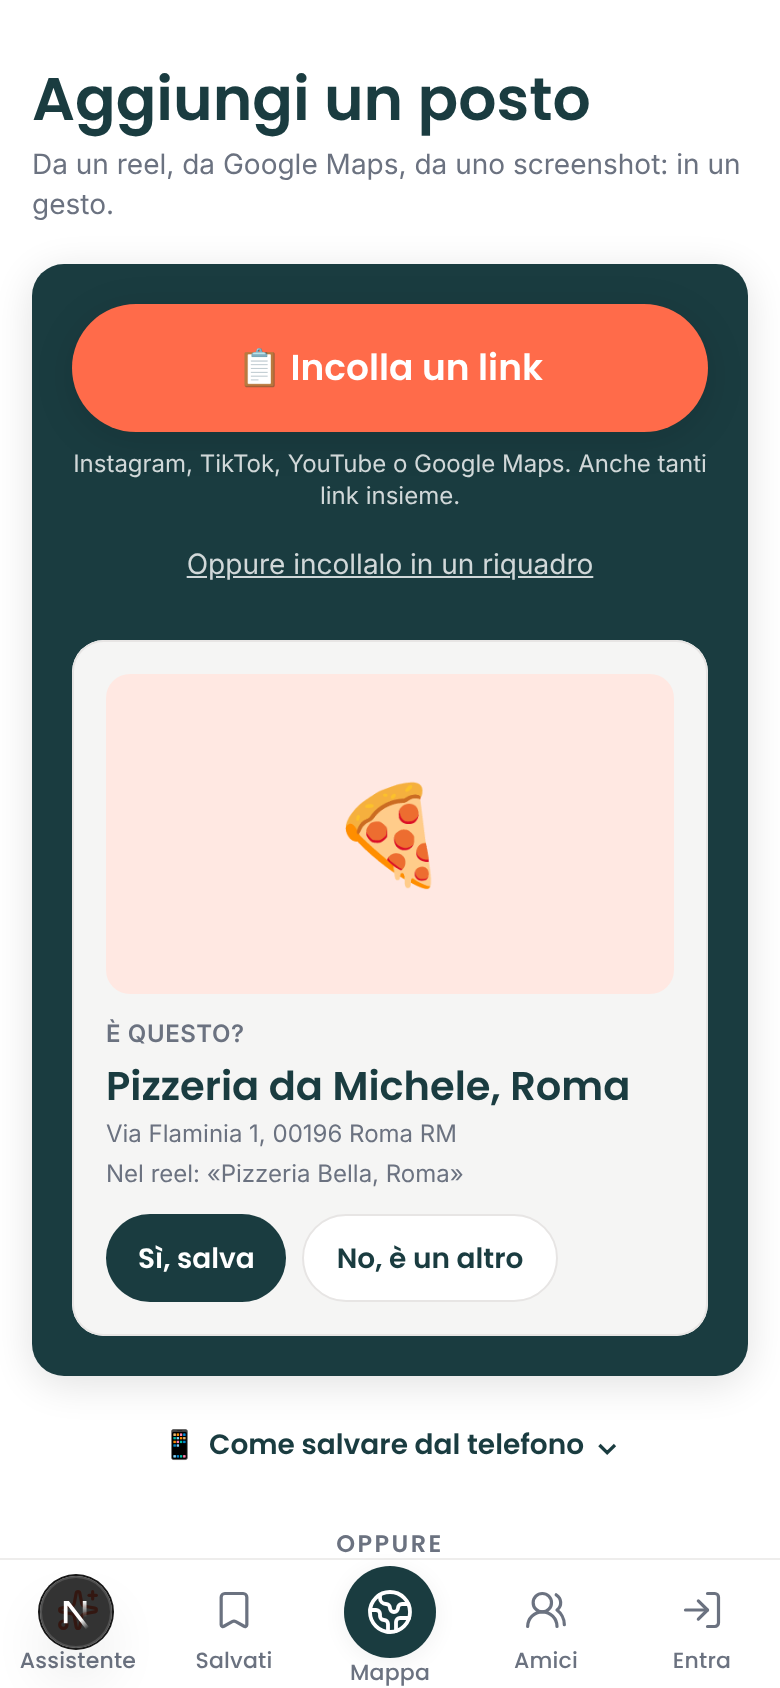
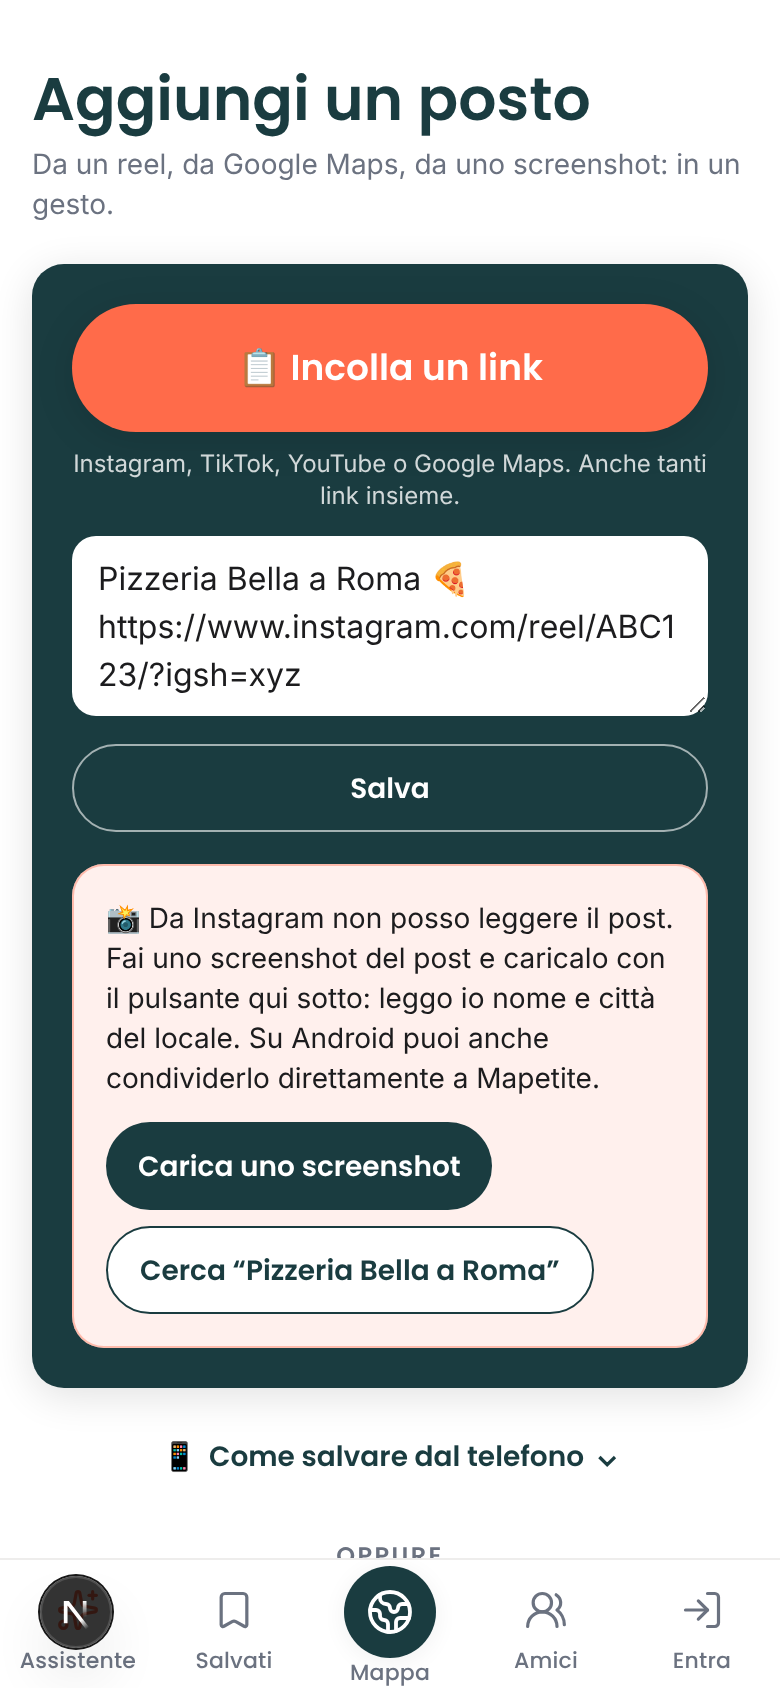
Primo accesso sul mockup A di nuovo acceso nel branch (revert del rinvio 63cd395), per correggere i difetti del terzo collaudo
Claude-Session: https://claude.ai/code/session_01VzRcprKnHW4LyteMmXX4Ky

Changed region(s): [[0.0308, 0.3081, 0.9538, 0.9242]]

diff --git a/src/app/onboarding/onboarding-view.tsx b/src/app/onboarding/onboarding-view.tsx
@@ -2,15 +2,21 @@
 
 import { useEffect, useState, useSyncExternalStore } from "react";
 import { useRouter } from "next/navigation";
-import { ArrowLeft, ChevronRight } from "lucide-react";
+import { ArrowLeft, ArrowRight, ChevronRight, Sparkles } from "lucide-react";
 import { completeOnboarding, skipOnboarding } from "./actions";
 import { CUISINES, OCCASIONS, ATMOSPHERES, PRICE_RANGES } from "@/lib/preferences";
-import { DIETE, SCOPERTE, TIPI, capito, dieteValide, pulisciMappa, scopertaDedotta, type Scoperta } from "@/lib/mappa-gusto";
+import { DIETE, SCOPERTE, TIPI, capito, fraseCapito, dieteValide, pulisciMappa, scopertaDedotta, type Scoperta } from "@/lib/mappa-gusto";
 import { ZONE } from "@/lib/gusti";
 import { trackFeature } from "@/lib/track";
 import { cityArea } from "@/lib/named-city";
 import { saveLastView } from "@/lib/last-view";
 import { clearStoredInvite, readStoredInvite } from "@/lib/invito";
+
+const SERIF = "font-[family-name:var(--font-newsreader)]";
+// "Ecco cosa ho capito di te" sul mockup A (frase da amico): bocciata 2 volte dal collaudo del 23/10
+// ("e altri 1", "Correggi" sotto i tasti con i profili ricchi, tocco su un tipo senza uscita). Spenta:
+// resta la lista di prima finché un collaudo nuovo non la approva.
+const CAPITO_A = false;
 
 // Risposte in corso, conservate sul telefono (decisione 13b del backlog): se al salvataggio
 // l'accesso è scaduto si passa dal login e, tornati qui, le risposte sono ancora tutte al loro
@@ -139,9 +145,9 @@ function Chip({
   );
 }
 
-function Gruppo({ title, children }: { title: string; children: React.ReactNode }) {
+function Gruppo({ title, id, children }: { title: string; id?: string; children: React.ReactNode }) {
   return (
-    <div className="mb-6">
+    <div id={id} className="mb-6 scroll-mt-24">
       <h2 className="mb-2.5 text-xs font-display font-semibold uppercase tracking-wide text-text-muted">{title}</h2>
       {children}
     </div>
@@ -286,7 +292,16 @@ function Benvenuto({ next, initial, ripreso }: { next: string | null; initial: D
   const skipStep = () => setStep((s) => Math.min(s + 1, TOTAL - 1));
 
   const saltaCls = "-mr-2 min-h-11 inline-flex items-center px-2 text-sm font-display font-semibold text-text-muted underline-offset-2 hover:underline";
-  const righe = capito(gusto, {
+  // La scelta "chicche/famosi" che la persona ha visto già segnata al passo 3 ("Scelto dai tuoi 👍") e ha
+  // lasciato: vale come scelta. Una mai mostrata non entra nella sintesi.
+  const gustoVisto = { ...gusto, scoperta: scopertaOra };
+  const righe = capito(gustoVisto, {
+    citta: chosenCity,
+    priceRange,
+    diete,
+    occasions: OCCASIONS.filter((o) => occasions.includes(o.value)),
+  });
+  const frase = fraseCapito(gustoVisto, {
     citta: chosenCity,
     priceRange,
     diete,
@@ -295,6 +310,22 @@ function Benvenuto({ next, initial, ripreso }: { next: string | null; initial: D
   const PASSO_DI: Record<string, number> = { zone: 0, su: PASSO_TIPI, giu: PASSO_TIPI, scoperta: PASSO_COME, occasioni: PASSO_COME, spesa: PASSO_COME, diete: PASSO_COME };
   // Scorrimento col dito sulla card (come Beli e Tinder): a destra 👍, a sinistra 👎.
   const [drag, setDrag] = useState<{ x0: number; dx: number } | null>(null);
+  // "Non è così? Correggi": le righe del profilo una per una (chiuse: la frase basta).
+  const [correggi, setCorreggi] = useState(false);
+  // Toccando una parola della frase si torna alla domanda che la cambia, non solo al passo (collaudo 23/10).
+  const [vaiA, setVaiA] = useState<string | null>(null);
+  useEffect(() => {
+    if (!vaiA) return;
+    const id = requestAnimationFrame(() => {
+      const el = document.getElementById(`domanda-${vaiA}`);
+      const det = el?.closest("details");
+      if (det) det.open = true;
+      el?.scrollIntoView({ block: "start" });
+      setVaiA(null);
+    });
+    return () => cancelAnimationFrame(id);
+  }, [vaiA, step]);
+  const cambia = (k: string) => { setStep(PASSO_DI[k] ?? 0); setVaiA(k); };
   // Card lasciata andare oltre la soglia: vola fuori dal lato giusto, poi arriva la prossima (come Beli).
   const [via, setVia] = useState<"su" | "giu" | null>(null);
 
@@ -349,10 +380,29 @@ function Benvenuto({ next, initial, ripreso }: { next: string | null; initial: D
 
       {/* Contenuto */}
       <div className="mx-auto w-full max-w-lg flex-1 px-6 pb-56 pt-4">
-        <p className="mb-2 text-xs font-display font-semibold tracking-widest text-accent">{config.kicker}</p>
-        <h1 className="mb-1 font-title text-[1.75rem] font-semibold leading-tight text-brand">{config.title}</h1>
-        <p className="mb-6 text-sm font-sans text-text-muted">{config.subtitle}</p>
-        {ripreso && (
+        {step === PASSO_TIPI ? (
+          // Mockup A "valuta" (21/10): titolo in serif e una riga sola; la card fa il resto.
+          <>
+            <h1 className={`${SERIF} mb-1 text-[40px] font-medium leading-[1.05] tracking-[-0.02em] text-[#141414]`}>{config.title}</h1>
+            <p className="mb-5 text-[15px] font-sans text-text-muted">{config.subtitle}</p>
+          </>
+        ) : step === PASSO_CAPITO && CAPITO_A ? (
+          // Mockup A (21/10): titolo in serif grande, come una pagina di rivista; la frase sotto fa il resto.
+          <>
+            <p className="mb-3 flex items-center gap-1.5 font-display text-[11px] font-semibold uppercase tracking-[0.16em] text-brand">
+              <Sparkles size={12} className="text-accent" aria-hidden /> La tua mappa del gusto
+            </p>
+            <h1 className={`${SERIF} mb-4 text-[36px] font-medium leading-[1.05] tracking-[-0.02em] text-[#141414] min-[380px]:mb-6 min-[380px]:text-[40px]`}>Ecco cosa ho capito di te</h1>
+          </>
+        ) : (
+          <>
+            <p className="mb-2 text-xs font-display font-semibold tracking-widest text-accent">{config.kicker}</p>
+            <h1 className="mb-1 font-title text-[1.75rem] font-semibold leading-tight text-brand">{config.title}</h1>
+            <p className="mb-6 text-sm font-sans text-text-muted">{config.subtitle}</p>
+          </>
+        )}
+        {/* Non sulla card dei tipi né sulla frase finale: toglieva spazio e copriva i tasti a 360px (collaudo 23/10). */}
+        {ripreso && step !== PASSO_TIPI && step < PASSO_CAPITO && (
           <p data-testid="benvenuto-ripreso" role="status" className="-mt-3 mb-5 rounded-btn bg-accent-light px-3 py-2 text-sm font-sans text-brand">
             Ho ritrovato le risposte che avevi già dato: puoi continuare da qui.
           </p>
@@ -433,7 +483,17 @@ function Benvenuto({ next, initial, ripreso }: { next: string | null; initial: D
           <div data-testid="benvenuto-tipi">
             {corrente ? (
               <>
-                <p data-testid="tipi-contatore" className="mb-2 text-xs font-sans text-text-muted">{visti.length + 1} di {TIPI.length}</p>
+
+                {/* La pila (mockup A): le prossime due card si intravedono dietro, un po' ruotate. */}
+                <div className="relative">
+                {TIPI.filter((t) => !visti.includes(t.id) && t.id !== corrente.id).slice(0, 2).map((t, i) => (
+                  <div
+                    key={t.id}
+                    aria-hidden
+                    className="absolute inset-0 rounded-[1.75rem] shadow-card"
+                    style={{ background: `linear-gradient(160deg, ${t.sfondo})`, transform: i === 0 ? "rotate(4deg) translate(10px, 6px)" : "rotate(-4deg) translate(-10px, 8px)", opacity: 0.9 }}
+                  />
+                ))}
                 <div
                   data-testid="tipo-card"
                   key={corrente.id}
@@ -448,7 +508,7 @@ function Benvenuto({ next, initial, ripreso }: { next: string | null; initial: D
                     setDrag(null);
                   }}
                   onPointerCancel={() => setDrag(null)}
-                  className="relative flex min-h-[20rem] touch-pan-y select-none flex-col justify-end overflow-hidden rounded-[1.5rem] p-5 text-white shadow-float"
+                  className="relative flex min-h-[clamp(14rem,36svh,19rem)] touch-pan-y select-none flex-col justify-end overflow-hidden rounded-[1.75rem] p-6 text-white shadow-float"
                   style={{
                     background: `linear-gradient(160deg, ${corrente.sfondo})`,
                     transform: via ? `translateX(${via === "su" ? 130 : -130}%) rotate(${via === "su" ? 14 : -14}deg)` : drag ? `translateX(${drag.dx}px) rotate(${drag.dx / 25}deg)` : undefined,
@@ -460,25 +520,34 @@ function Benvenuto({ next, initial, ripreso }: { next: string | null; initial: D
                       {drag.dx > 0 ? "👍 Sì" : "👎 No"}
                     </span>
                   )}
-                  <span aria-hidden className="absolute right-4 top-3 text-[5.5rem] leading-none drop-shadow">{corrente.emoji}</span>
-                  <span className="mb-2 w-fit rounded-pill bg-black/25 px-2.5 py-0.5 text-[11px] font-display font-semibold uppercase tracking-wider">
-                    {corrente.famoso ? "Molto noto" : "Poco noto"}
+                  {/* Contatore dei tipi dentro la card: sopra c'è già "2 di 4" dei passi (collaudo 23/10). */}
+                  <span data-testid="tipi-contatore" className="absolute left-5 top-5 z-10 rounded-pill bg-black/30 px-2.5 py-0.5 font-display text-xs font-semibold">{visti.length + 1} di {TIPI.length}</span>
+                  {/* Luci calde sfocate e l'emoji al centro, come nel mockup: niente foto inventate. */}
+                  <span aria-hidden className="pointer-events-none absolute left-6 top-10 h-20 w-20 rounded-full bg-[#ffd9a0]/35 blur-2xl" />
+                  <span aria-hidden className="pointer-events-none absolute right-8 top-6 h-16 w-16 rounded-full bg-[#ffd9a0]/30 blur-2xl" />
+                  {/* L'emoji occupa lo spazio libero sopra il testo (non più in posizione fissa: a 360px copriva titolo ed etichetta, collaudo 23/10). */}
+                  <span aria-hidden className="relative flex min-h-[5.5rem] flex-1 items-center justify-center pb-2 text-[4.75rem] leading-none drop-shadow-lg min-[380px]:text-[5.5rem]">{corrente.emoji}</span>
+                  <span aria-hidden className="pointer-events-none absolute inset-x-0 bottom-0 h-1/2 bg-gradient-to-t from-black/45 to-transparent" />
+                  <span className="relative mb-2.5 inline-flex w-fit items-center gap-1.5 rounded-pill bg-white/85 px-3 py-1 font-display text-[13px] font-semibold text-[#141414]">
+                    {corrente.famoso ? "Molto noto" : <><Sparkles size={12} className="text-accent" aria-hidden /> Chicca di quartiere</>}
                   </span>
-                  <h2 className="font-title text-2xl font-semibold leading-tight">{corrente.titolo}</h2>
-                  <p className="mt-1 text-sm font-sans text-white/90">{corrente.riga}</p>
+                  <h2 className={`${SERIF} relative text-[30px] font-medium leading-[1.08]`}>{corrente.titolo}</h2>
+                  <p className="relative mt-1.5 text-sm font-sans text-white/90">{corrente.riga}</p>
                 </div>
-                <div className="mt-4 grid grid-cols-[1fr_auto_1fr] items-center gap-3">
-                  <button type="button" data-testid="tipo-giu" onClick={() => vota(corrente.id, "giu")} className="min-h-14 rounded-pill border-2 border-border bg-white font-display text-base font-semibold text-brand active:scale-95">
-                    👎 No
+                </div>
+                {/* Tasti tondi grandi (mockup A): 👎 bianco, 👍 corallo, "Non lo conosco" in mezzo. */}
+                <div className="mt-7 flex items-center justify-between px-3">
+                  <button type="button" data-testid="tipo-giu" aria-label={`No, ${corrente.titolo}`} onClick={() => vota(corrente.id, "giu")} className="flex h-[4.5rem] w-[4.5rem] items-center justify-center rounded-full border border-border bg-white text-[2rem] shadow-card active:scale-95">
+                    <span aria-hidden>👎</span>
                   </button>
-                  <button type="button" data-testid="tipo-boh" onClick={() => vota(corrente.id, "boh")} className="min-h-11 px-2 text-sm font-display font-semibold text-text-muted">
-                    Non so
+                  <button type="button" data-testid="tipo-boh" onClick={() => vota(corrente.id, "boh")} className="min-h-11 max-w-[7rem] px-2 text-center text-[15px] font-sans leading-snug text-text-muted">
+                    Non lo conosco
                   </button>
-                  <button type="button" data-testid="tipo-su" onClick={() => vota(corrente.id, "su")} className="min-h-14 rounded-pill bg-accent font-display text-base font-semibold text-white active:scale-95">
-                    👍 Sì
+                  <button type="button" data-testid="tipo-su" aria-label={`Sì, ${corrente.titolo}`} onClick={() => vota(corrente.id, "su")} className="flex h-[4.5rem] w-[4.5rem] items-center justify-center rounded-full bg-accent text-[2rem] shadow-[0_10px_28px_rgba(255,107,74,0.45)] active:scale-95">
+                    <span aria-hidden>👍</span>
                   </button>
                 </div>
-                <p aria-hidden className="mt-2 text-center text-xs font-sans text-text-muted">← trascina la card, oppure tocca →</p>
+                <p aria-hidden className="mt-2 text-center text-xs font-sans text-text-muted max-[379px]:hidden">← trascina la card, oppure tocca →</p>
                 {visti.length > 0 && (
                   <button type="button" onClick={annullaUltimo} className="mx-auto mt-2 flex min-h-11 items-center text-sm font-display font-semibold text-accent">
                     ↶ Torna al precedente
@@ -487,7 +556,7 @@ function Benvenuto({ next, initial, ripreso }: { next: string | null; initial: D
               </>
             ) : (
               <p data-testid="tipi-finiti" className="rounded-card bg-accent-light px-4 py-3 text-sm font-sans text-brand">
-                Fatto: {su.length} {su.length === 1 ? "ti piace" : "ti piacciono"}, {giu.length} no. <button type="button" onClick={() => { setVisti([]); setSu([]); setGiu([]); }} className="font-display font-semibold text-accent">Rifai</button>
+                Fatto: {su.length === 0 ? "nessuno ti piace" : `${su.length} ${su.length === 1 ? "ti piace" : "ti piacciono"}`}, {giu.length} no. <button type="button" onClick={() => { setVisti([]); setSu([]); setGiu([]); }} className="font-display font-semibold text-accent">Rifai</button>
               </p>
             )}
           </div>
@@ -495,7 +564,7 @@ function Benvenuto({ next, initial, ripreso }: { next: string | null; initial: D
 
         {step === PASSO_COME && (
           <div data-testid="benvenuto-come">
-            <Gruppo title="Famosi o chicche?">
+            <Gruppo title="Famosi o chicche?" id="domanda-scoperta">
               <div className="grid grid-cols-3 gap-2" role="radiogroup" aria-label="Famosi o chicche?">
                 {SCOPERTE.map((sc) => {
                   const on = scopertaOra === sc.value;
@@ -516,7 +585,7 @@ function Benvenuto({ next, initial, ripreso }: { next: string | null; initial: D
               </div>
               {!scoperta && dedotta && <p className="mt-1.5 text-xs font-sans text-text-muted">Scelto dai tuoi 👍: cambialo se non è così.</p>}
             </Gruppo>
-            <Gruppo title="A tavola">
+            <Gruppo title="A tavola" id="domanda-diete">
               <div className="flex flex-wrap gap-2">
                 {DIETE.map((d) => (
                   <Chip key={d.id} item={{ value: d.id, label: d.label, emoji: d.emoji }} selected={diete.includes(d.id)} onToggle={(v) => setDiete((p) => toggle(p, v))} />
@@ -528,14 +597,14 @@ function Benvenuto({ next, initial, ripreso }: { next: string | null; initial: D
                 Occasioni e spesa <span className="text-xs font-sans font-normal text-text-muted">facoltativo</span>
               </summary>
               <div className="pt-2">
-              <Gruppo title="Occasioni">
+              <Gruppo title="Occasioni" id="domanda-occasioni">
               <div className="flex flex-wrap gap-2">
                 {OCCASIONS.map((item) => (
                   <Chip key={item.value} item={item} selected={occasions.includes(item.value)} onToggle={(v) => setOccasions((p) => toggle(p, v))} />
                 ))}
               </div>
               </Gruppo>
-              <Gruppo title="Spesa tipica">
+              <Gruppo title="Spesa tipica" id="domanda-spesa">
               <div className="grid grid-cols-4 gap-2">
                 {PRICE_RANGES.map((item) => {
                   const on = priceRange === item.value;
@@ -564,8 +633,51 @@ function Benvenuto({ next, initial, ripreso }: { next: string | null; initial: D
 
         {step === PASSO_CAPITO && (
           <div data-testid="benvenuto-capito">
-            {righe.length > 0 ? (
-              <ul className="overflow-hidden rounded-card border border-border bg-white shadow-card">
+            {!CAPITO_A ? (righe.length === 0 && (
+              <p data-testid="capito-vuoto" className="rounded-card bg-surface px-4 py-3 text-sm font-sans text-text">
+                Non mi hai detto ancora niente: imparo da quello che salvi e cerchi. Puoi sempre cambiare tutto in &quot;I tuoi gusti&quot;.
+              </p>
+            )) : frase.length > 0 ? (
+              <>
+                {/* La frase da amico: solo ciò che hai scelto, parole chiave sottolineate in corallo.
+                    Toccarne una porta alla domanda che la cambia. */}
+                <p data-testid="capito-frase" className={`${SERIF} text-[21px] leading-[1.42] text-[#141414] min-[380px]:text-[24px]`}>
+                  {frase.map((f, i) => (
+                    <span key={i}>
+                      {i > 0 && " "}
+                      {f.map((x, j) => x.k ? (
+                        <span
+                          key={j}
+                          role="button"
+                          tabIndex={0}
+                          data-testid="capito-parola"
+                          aria-label={`${x.t}: cambia`}
+                          onClick={() => cambia(x.k!)}
+                          onKeyDown={(e) => { if (e.key === "Enter" || e.key === " ") { e.preventDefault(); cambia(x.k!); } }}
+                          // Uno span, non un <button>: il bottone non va a capo dentro la riga e spezzava la frase.
+                          className="cursor-pointer bg-[linear-gradient(transparent_62%,rgba(255,107,74,0.28)_62%)] [-webkit-box-decoration-break:clone] [box-decoration-break:clone]"
+                        >
+                          {x.t}
+                        </span>
+                      ) : <span key={j}>{x.t}</span>)}
+                    </span>
+                  ))}
+                </p>
+                <p className="mt-6 flex items-center gap-2 text-[15px] font-sans text-text-muted">
+                  Non è così?
+                  <button type="button" data-testid="capito-correggi" aria-expanded={correggi} onClick={() => setCorreggi((v) => !v)} className="min-h-11 font-display font-semibold text-brand">
+                    Correggi
+                  </button>
+                </p>
+              </>
+            ) : (
+              <p data-testid="capito-vuoto" className="rounded-card bg-surface px-4 py-3 text-sm font-sans text-text">
+                Non mi hai detto ancora niente: imparo da quello che salvi e cerchi. Puoi sempre cambiare tutto in &quot;I tuoi gusti&quot;.
+              </p>
+            )}
+            {/* Le righe da correggere una per una: un tocco più in là, dietro "Correggi". */}
+            {(correggi || !CAPITO_A) && righe.length > 0 && (
+              <ul className="mt-1 overflow-hidden rounded-card border border-border bg-white shadow-card">
                 {righe.map((r, i) => (
                   <li key={r.chiave} className={i > 0 ? "border-t border-border" : ""}>
                     <button type="button" data-testid="capito-riga" onClick={() => setStep(PASSO_DI[r.chiave] ?? 0)} className="flex min-h-14 w-full items-center gap-3 px-4 py-2.5 text-left active:bg-surface">
@@ -576,12 +688,8 @@ function Benvenuto({ next, initial, ripreso }: { next: string | null; initial: D
                   </li>
                 ))}
               </ul>
-            ) : (
-              <p data-testid="capito-vuoto" className="rounded-card bg-surface px-4 py-3 text-sm font-sans text-text">
-                Non mi hai detto ancora niente: imparo da quello che salvi e cerchi. Puoi sempre cambiare tutto in &quot;I tuoi gusti&quot;.
-              </p>
             )}
-            <p className="mt-3 text-xs font-sans text-text-muted">Da ora ricerca, verdetti e ordine dei risultati tengono conto di questo.</p>
+            <p className="mt-4 text-xs font-sans text-text-muted">Da ora ricerca, verdetti e ordine dei risultati tengono conto di questo.</p>
           </div>
         )}
       </div>
@@ -611,9 +719,12 @@ function Benvenuto({ next, initial, ripreso }: { next: string | null; initial: D
                 data-testid="benvenuto-fine"
                 onClick={() => finish(null)}
                 disabled={!!submitting}
-                className="w-full rounded-pill bg-accent px-6 py-3.5 font-display font-semibold text-white transition-opacity hover:opacity-90 active:scale-[0.98] disabled:opacity-60"
+                className={CAPITO_A
+                  ? "flex w-full items-center justify-center gap-2 rounded-2xl bg-brand px-6 py-4 font-display text-[17px] font-semibold text-white shadow-float transition-opacity hover:opacity-90 active:scale-[0.98] disabled:opacity-60"
+                  : "w-full rounded-pill bg-accent px-6 py-3.5 font-display font-semibold text-white transition-opacity hover:opacity-90 active:scale-[0.98] disabled:opacity-60"}
               >
-                {submitting === "mappa" ? (next ? "Salvo i tuoi gusti…" : "Cerco i posti per te…") : next ? "Salva e continua" : "✨ Mostrami i posti per me"}
+                {/* Mockup A: "Apri la mia mappa →" (la mappa parte già sui posti per te). */}
+                {submitting === "mappa" ? (next ? "Salvo i tuoi gusti…" : "Cerco i posti per te…") : next ? "Salva e continua" : CAPITO_A ? <>Apri la mia mappa <ArrowRight size={18} aria-hidden /></> : "✨ Mostrami i posti per me"}
               </button>
               {/* I posti già salvati altrove (Google Maps, il link di un reel): dopo la sintesi, non al posto suo. */}
               <button

diff --git a/src/lib/mappa-gusto.ts b/src/lib/mappa-gusto.ts
@@ -136,8 +136,8 @@ export function capito(m: MappaGusto, extra: { citta: string | null; priceRange:
   if (su.length) out.push({ chiave: "su", emoji: "❤", testo: `${su.length === 1 ? "Ti piace" : "Ti piacciono"}: ${su.slice(0, 3).map((t) => t.titolo.toLowerCase()).join(" · ")}${altri(su.length, 3)}` });
   const giu = m.giu.map(tipoDa).filter((t): t is TipoPosto => t != null);
   if (giu.length) out.push({ chiave: "giu", emoji: "🙅", testo: `Meno: ${giu.slice(0, 2).map((t) => t.titolo.toLowerCase()).join(" · ")}${altri(giu.length, 2)}` });
-  // La scelta vista già segnata al passo 3 ("Scelto dai tuoi 👍") vale come scelta.
-  const scoperta = m.scoperta ?? scopertaDedotta(m.su);
+  // Solo la scelta fatta davvero (niente dedotto dai 👍).
+  const scoperta = m.scoperta;
   if (scoperta === "chicche") out.push({ chiave: "scoperta", emoji: "💎", testo: "Preferisci le chicche: i posti di massa li metto in fondo" });
   else if (scoperta === "famosi") out.push({ chiave: "scoperta", emoji: "⭐", testo: "Ti piacciono anche i posti famosi" });
   if (extra.occasions.length) out.push({ chiave: "occasioni", emoji: "🗓", testo: `Esci per: ${extra.occasions.slice(0, 3).map((o) => o.label.toLowerCase()).join(", ")}` });
